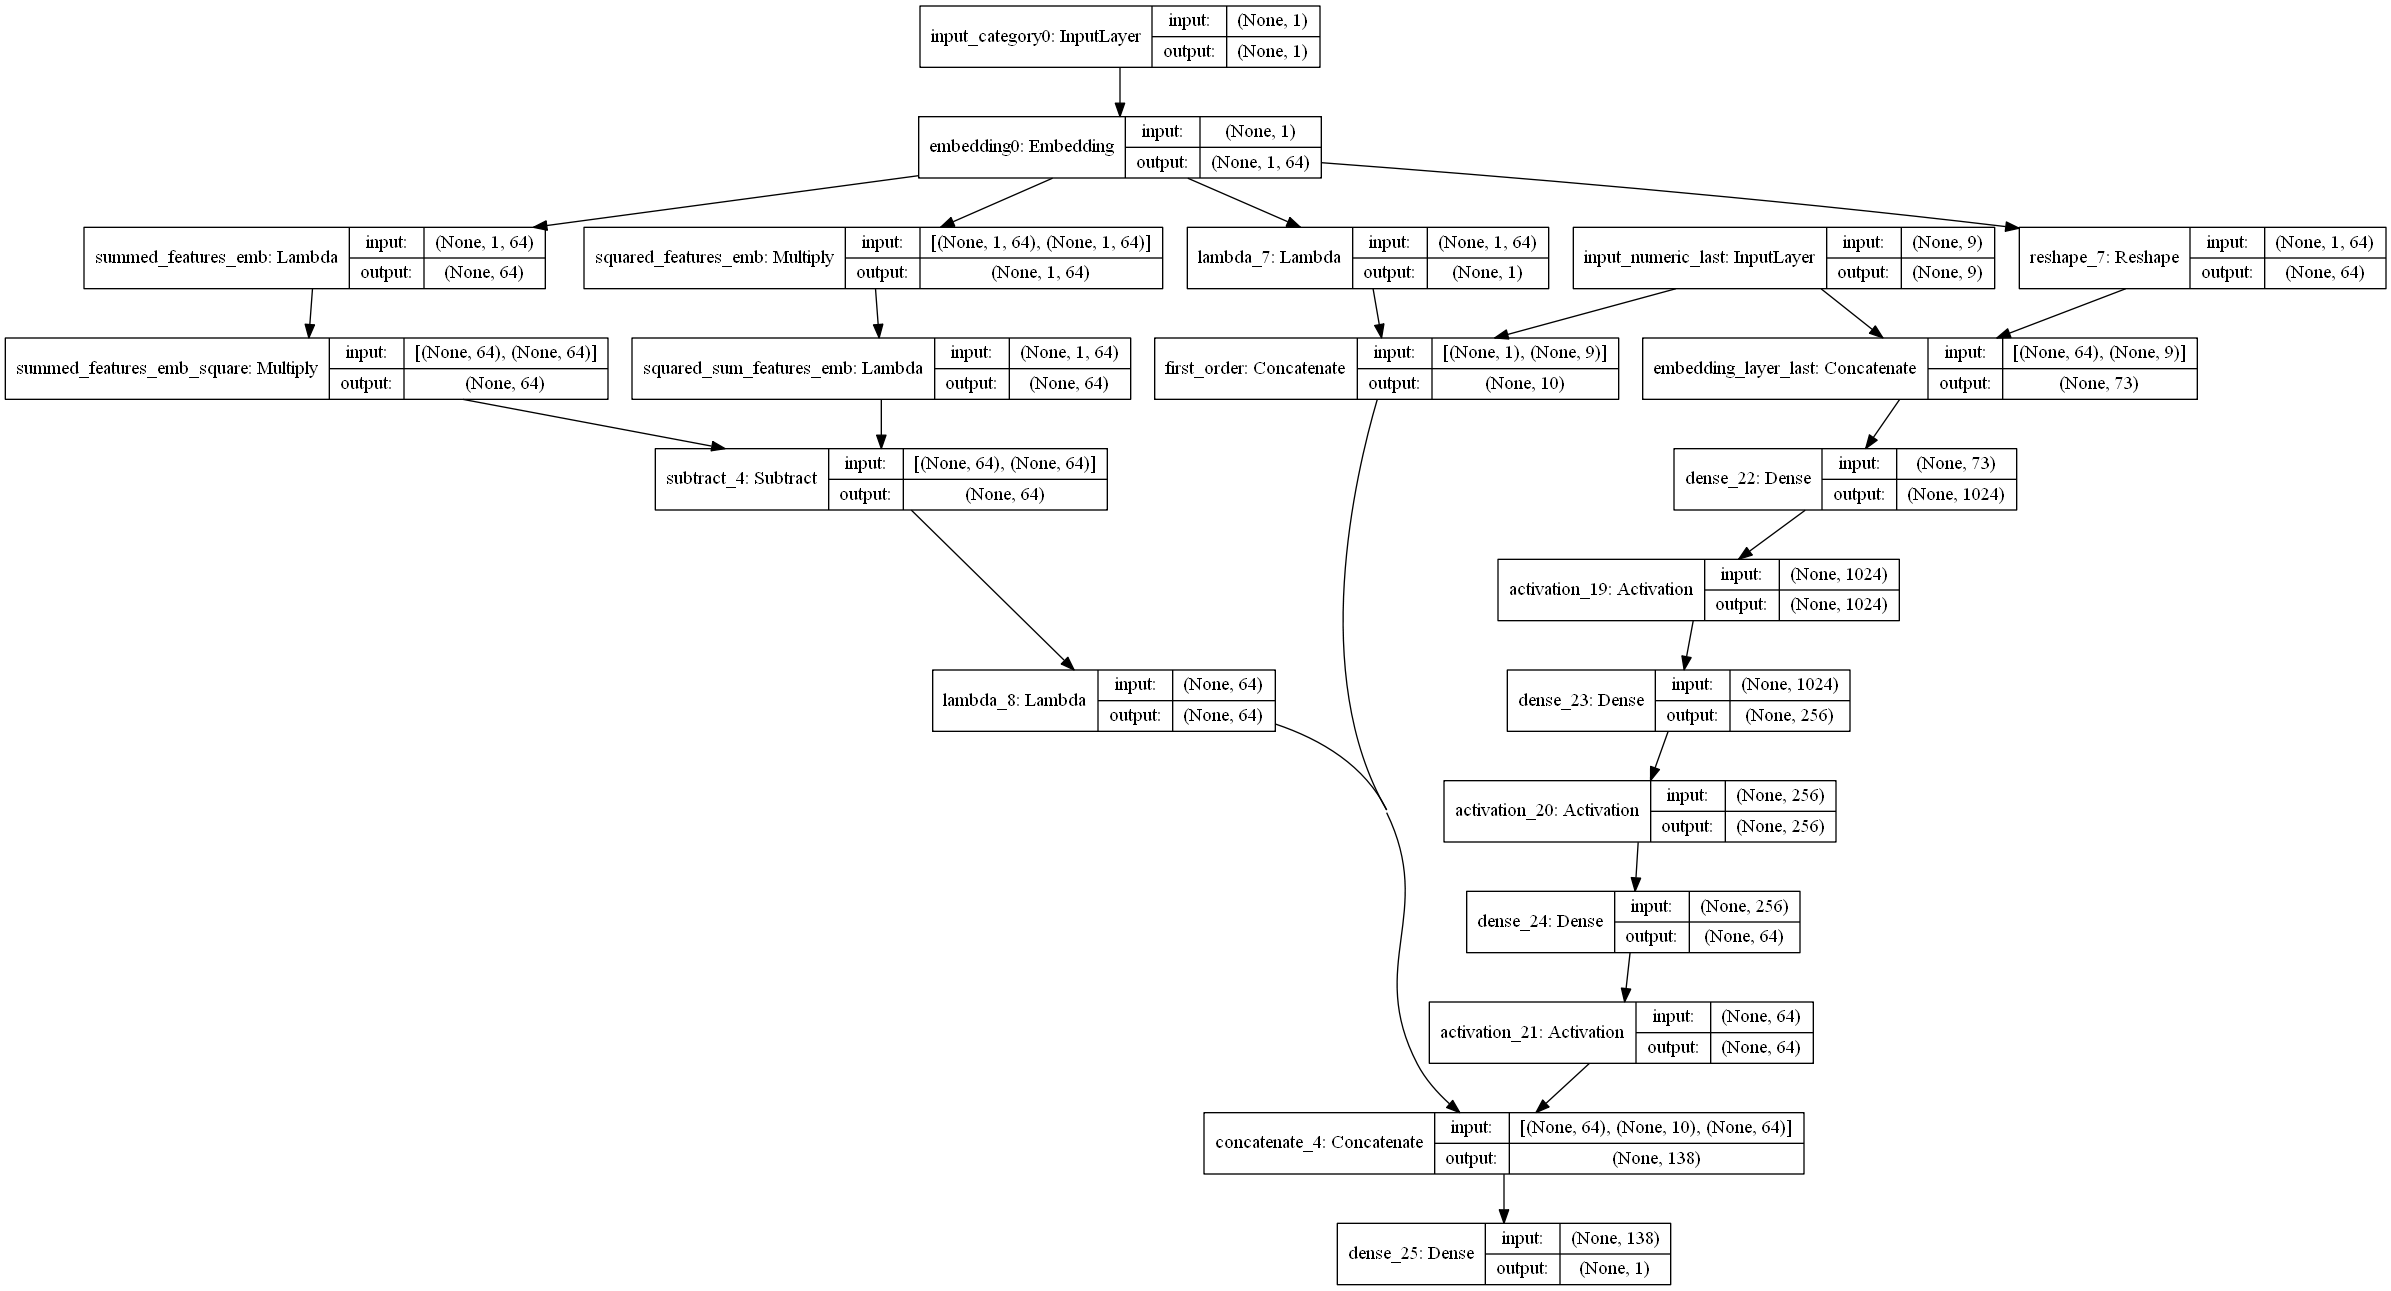
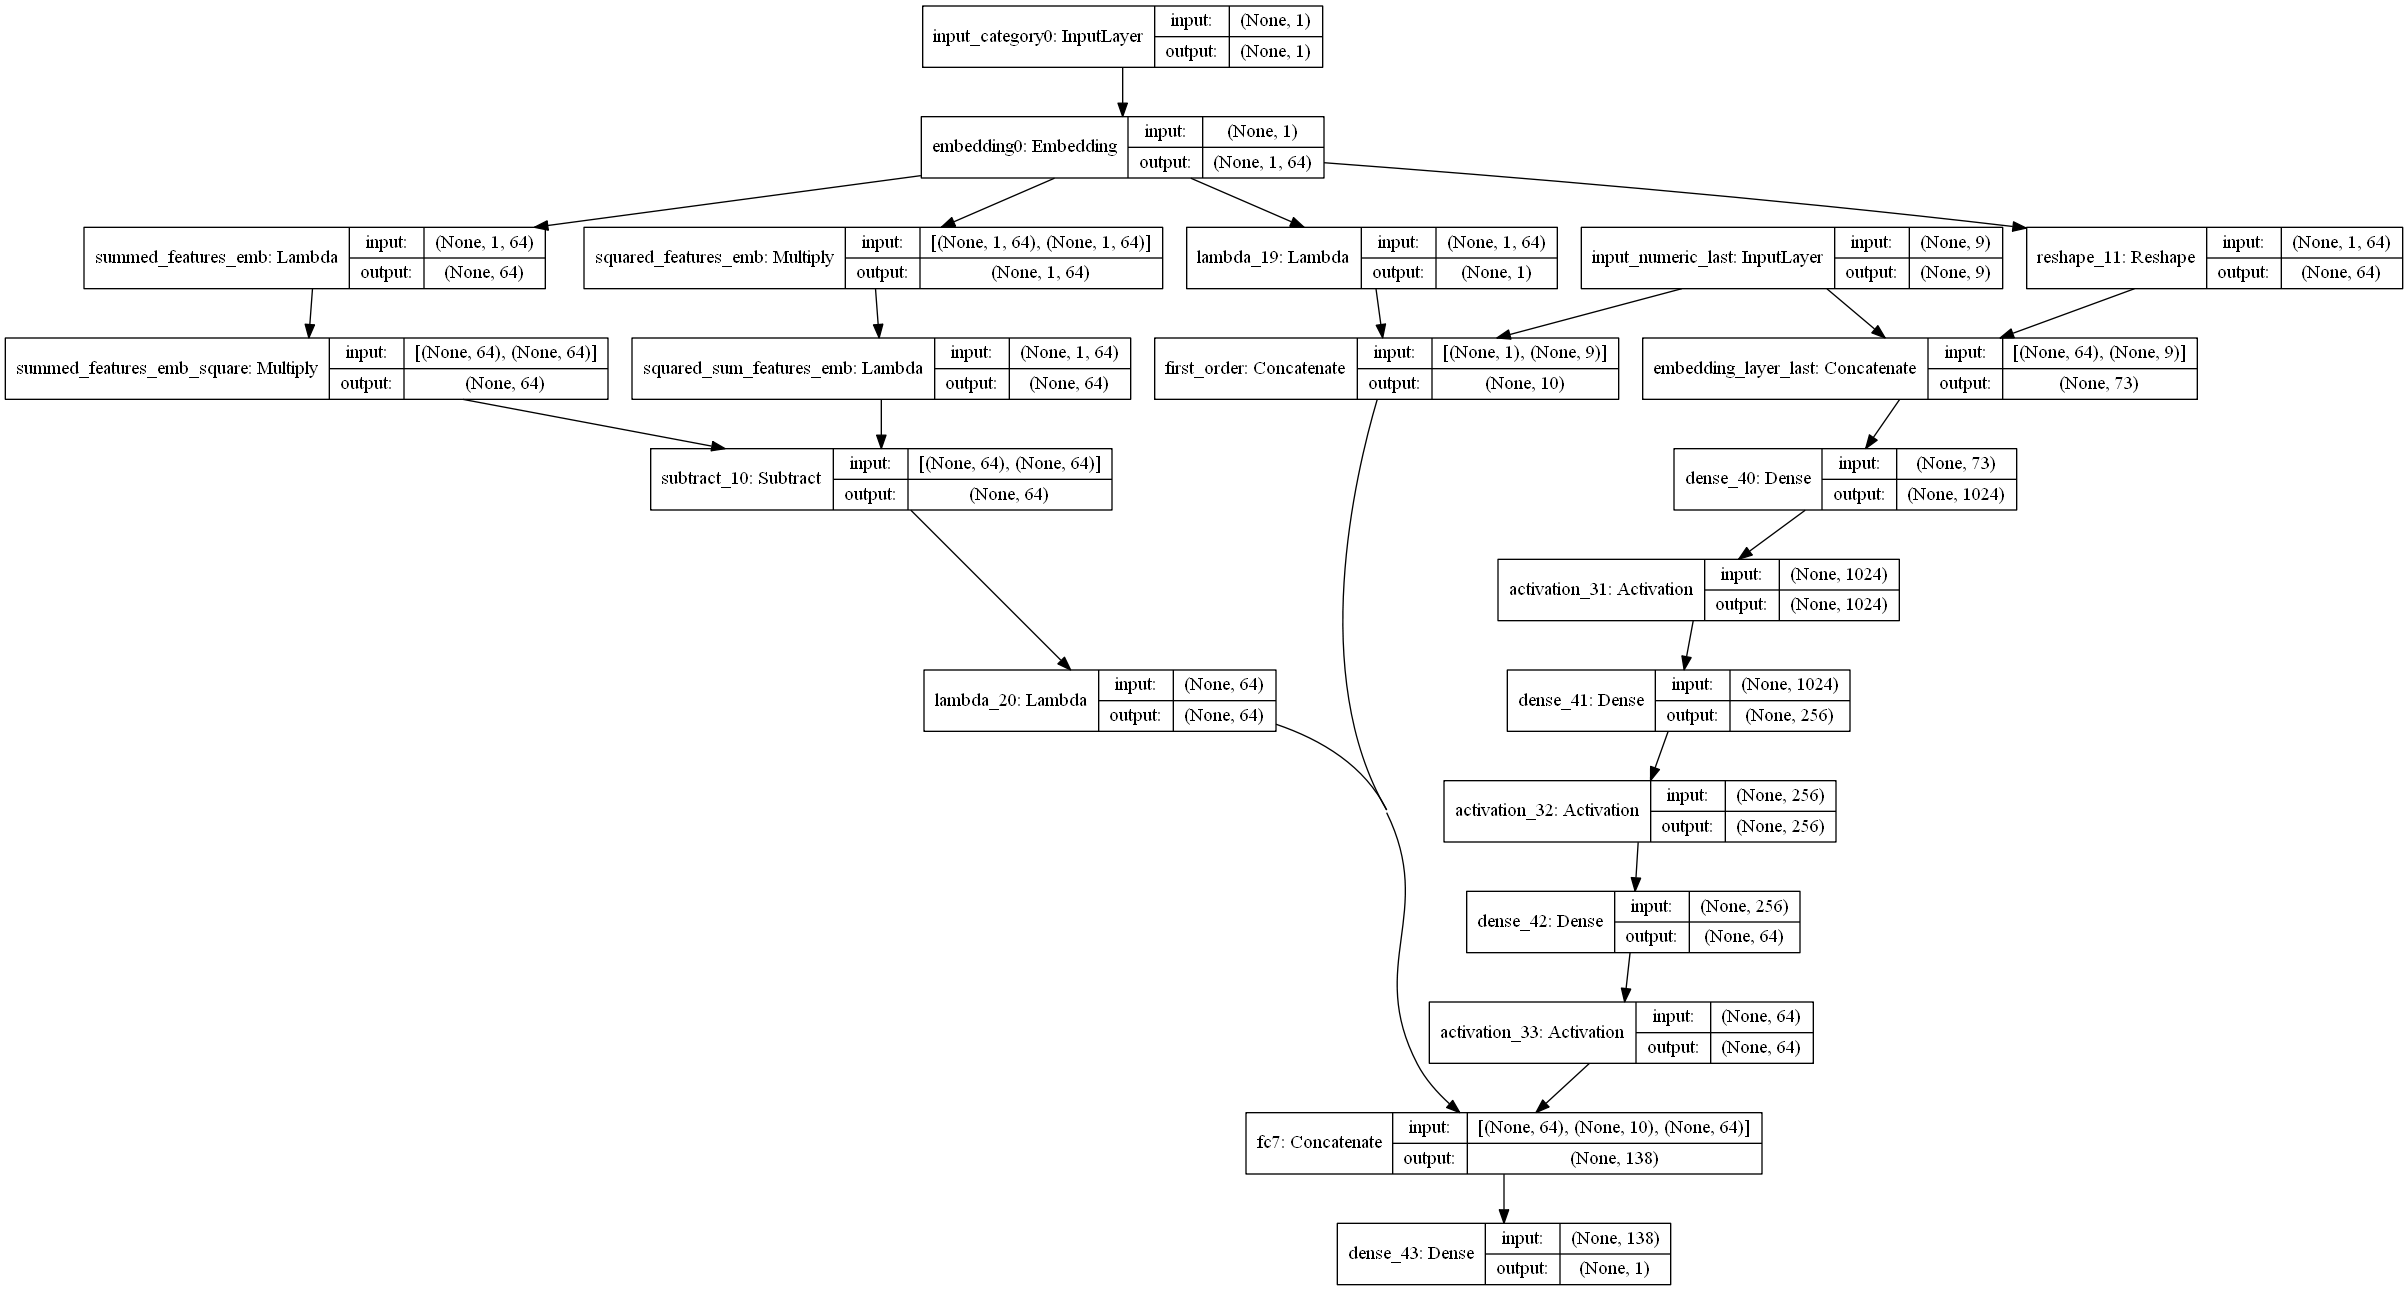
custom activation and output fc7

diff --git a/deepex/DeepEX.py b/deepex/DeepEX.py
@@ -22,13 +22,14 @@ import tensorflow as tf
 from keras.layers import *
 from keras.models import Model
 from keras.utils import plot_model
+from keras.models import load_model
 from keras import backend as K
 os.environ['KERAS_BACKEND'] = 'tensorflow'
 
 class DeepEX:
     def __init__(self, data, feature_dim=None, category_index=None,\
                  embedding_dict_size=1000, embedding_size=64, depths_size = [1024,256,64], \
-                 class_num=2, aggregate_flag=False, metrics=None, optimizer='Adam'):
+                 class_num=2, aggregate_flag=False, metrics=None, optimizer='Adam', activation='relu'):
         '''
         
         data: np.array
@@ -74,7 +75,20 @@ class DeepEX:
         self.get_embedding_layer()
         # set self.deep_model
         self.deep()
-    
+        
+        
+    def get_fc7_output(self, model_path = None, layer_name = 'fc7', data = None):
+        assert model_path is not None, "Sorry, you need give a model path"
+        model = load_model(model_path)
+        if data is None:
+            x = self.data_split
+        else:
+            x = data
+        intermediate_layer_model = Model(inputs=model.input,
+                                         outputs=model.get_layer(layer_name).output)
+        intermediate_output = intermediate_layer_model.predict(x)
+        return intermediate_output
+        
     def auc(self, y_true, y_pred):
         try:
             auc = tf.metrics.auc(y_true, y_pred)[1]
@@ -98,7 +112,7 @@ class DeepEX:
         model.fit(x, y, batch_size, epochs, verbose, callbacks, 
               validation_split, validation_data, shuffle, class_weight, 
               sample_weight, initial_epoch, steps_per_epoch, validation_steps)
-        
+    
         if save_model_path:
             model.save(save_model_path)
             print ("model has been saved at "+ str(save_model_path))
@@ -202,15 +216,15 @@ class DeepEX:
     
     def deep(self):
         model = Dense(self.depths_size[0])(self.embedding_layer)
-        model = Activation('relu')(model)
+        model = Activation(activation)(model)
         for depth in self.depths_size[1:]:
             model = Dense(depth)(model)
-            model = Activation('relu')(model)
+            model = Activation(activation)(model)
         self.deep_model = model
         return model
     
     def deepfm(self):
-        from .model import deepfm
+        from model import deepfm
         model, self.fc7 = deepfm.deepfm(self.embeddings,self.numerics,self.aggregate_flag,
                       self.deep_model,self.class_num,self.inputs,self.metrics,
                       self.auc,self.optimizer)
@@ -233,15 +247,18 @@ if __name__ == '__main__':
     # declare DeepEX objects
     deepEX = DeepEX(data = x, feature_dim=feat_dim, category_index=[[0]], embedding_dict_size=1000, 
                   embedding_size=64, depths_size = [1024,256,64], class_num=2, 
-                  aggregate_flag=False, metrics=None, optimizer='Adam')
+                  aggregate_flag=False, metrics=None, optimizer='Adam', activation='relu')
     
     model = deepEX.deepfm()  # get DeepFM
     plot_model(model,'deepFM.png',show_shapes=True) # show model graph
     
     # train deepfm
-    deepEX.fit(model, y, save_model_path=None, batch_size=None, epochs=1, verbose=1, callbacks=None, 
+    path = None
+    deepEX.fit(model, y, save_model_path=path, batch_size=None, epochs=1, verbose=1, callbacks=None, 
               validation_split=0.0, validation_data=None, shuffle=True, class_weight=None, 
               sample_weight=None, initial_epoch=0, steps_per_epoch=None, validation_steps=None)
-
-
+    
+    # get fc7 output tensor
+    fc7 = deepEX.get_fc7_output(model_path=path, layer_name='fc7', data=deepEX.data_split)
+    
     

diff --git a/setup.py b/setup.py
@@ -5,7 +5,7 @@ with open("README.md", "r") as f:
 
 setuptools.setup(
       name='deepex',
-      version='0.0.7',
+      version='0.0.8',
       description='DeepEX is a universal convenient frame with keras and Tensorflow. You can get well-known Wide&Deep model such as DeepFM here. Or, you can define you custom model use this frame.',
       long_description=long_description,
       long_description_content_type="text/markdown",	

diff --git a/deepex/model/deepfm.py b/deepex/model/deepfm.py
@@ -69,7 +69,7 @@ def deepfm(embeddings,numerics,aggregate_flag,
            auc,optimizer):
     
     first_order, second_order = fm(embeddings,numerics,aggregate_flag)
-    fc7 = concatenate([deep_model,first_order, second_order])
+    fc7 = concatenate([deep_model,first_order, second_order], name='fc7')
     if class_num > 2:
         model = Dense(class_num, activation='softmax')(fc7)
     else:

diff --git a/README.md b/README.md
@@ -43,7 +43,7 @@ In the functional API, given some parmeters, you can instantiate a `DeepEX` obje
 ```python
 DeepEX(data = None, feature_dim=None, category_index=None,embedding_dict_size=1000,
       embedding_size=64, depths_size = [1024,256,64],class_num=2,
-      aggregate_flag=False, metrics=None, optimizer='Adam')
+      aggregate_flag=False, metrics=None, optimizer='Adam', activation='relu')
 ```
 
 Only data is necessary, other parmeters have default value.
@@ -51,29 +51,21 @@ Only data is necessary, other parmeters have default value.
 **Arguments**
 
 * **data**: np.array
-
 * **feature_dim**: integer, feature dimension
-
 * **category_index**: 
   * Can be a 2D list, like [A,B], A and B also a list, if len(A)>1, that means the element of A belong to a field, and will be input embedding layer together.
   * Can be a integer, it specific feature_dim % integer == 0, that means split feature as equal intervals with category_index
   * If None, all of feature will be embedding
-
 * **embedding_dict_size**: embedding dict size of categroy feature
-
 * **embedding_size**: embedding size, it make output size like (?, len(category_index), embedding_size)
-
 * **depths_size**: network of deep part parameter, last dimension means fc7 shape
-
 * **class_num**: multi class or binary class
-
 * **aggregate_flag**: 
   * if True, first_order and second_order of FM part output as (?,1)
   * if False, output as (?, len(category_index)) and (?, embedding_size)
-
 * **metrics**: can recive custom metrics, if None, binary class use AUC, multi class use auccary
-
-* **optimizer**: Network optimizer, default adam
+* **optimizer**: Network optimizer, default adam,  see [optimizer](https://keras.io/optimizers/).
+* **activation**: Deep part activation, default relu, see [activations](https://keras.io/activations/).
 
 
 
@@ -154,6 +146,24 @@ fit data to train model
 
 
 
+### get_fc7_output
+
+```python
+get_fc7_output(self, model_path = None, layer_name = 'fc7', data = None)
+```
+
+Get model's fc7 layer output, it can use for other operation, such as model ensemble
+
+**Arguments**
+
+- **model_path**: A string, only model_path is necessary,  tell function where model is, the model file should be saved use keras.models.Model.save() function.
+- **layer_name**: A string, default 'fc7'
+- **data**: numpy array, NOTICE: if you declare a DeepEX object use same parameter just like model will be load (actually just need [data] and [category_index] are same), this parametre can be None, data will read from self.data. HOWEVER, if you declare other way, you need split data format as model input
+
+**return**
+
+* intermediate_output: Numpy array(s) of intermediate outputs.
+
 
 
 ## How to Use
@@ -187,14 +197,16 @@ y = np.random.randint(0,2,samples)  # generate label
 # declare DeepEX objects
 deepEX = DeepEX(data = x, feature_dim=feat_dim, category_index=2, embedding_dict_size=1000, 
 embedding_size=64, depths_size = [1024,256,64], class_num=2, 
-aggregate_flag=False, metrics=None, optimizer='Adam')
+aggregate_flag=False, metrics=None, optimizer='Adam', activation='relu')
 
 model = deepEX.deepfm()  # get DeepFM
 plot_model(model,'deepFM.png',show_shapes=True) # show model graph
 
 # train deepfm
-deepEX.fit(model, y, save_model_path='deepfm.model', batch_size=None, epochs=1, verbose=1, callbacks=None, 
-validation_split=0.0, validation_data=None, shuffle=True, class_weight=None, 
-sample_weight=None, initial_epoch=0, steps_per_epoch=None, validation_steps=None)
+path = None
+deepEX.fit(model, y, save_model_path=path, batch_size=None, epochs=1, verbose=1, callbacks=None,validation_split=0.0, validation_data=None, shuffle=True, class_weight=None,sample_weight=None, initial_epoch=0, steps_per_epoch=None, validation_steps=None)
+
+# get fc7 output tensor
+fc7 = deepEX.get_fc7_output(model_path=path, layer_name='fc7', data=deepEX.data_split)
 ```
 

diff --git a/updata_log.md b/updata_log.md
@@ -1,0 +1,8 @@
+# Updata Log
+
+## v0.0.8
+
+**update time: 2019.06.05**
+
+1. **Activation**: When declare a `DeepEX` object, custom activation can give to deep network 
+2. **FC7**: FC7 layer output can get from `get_fc7_output()` function.
